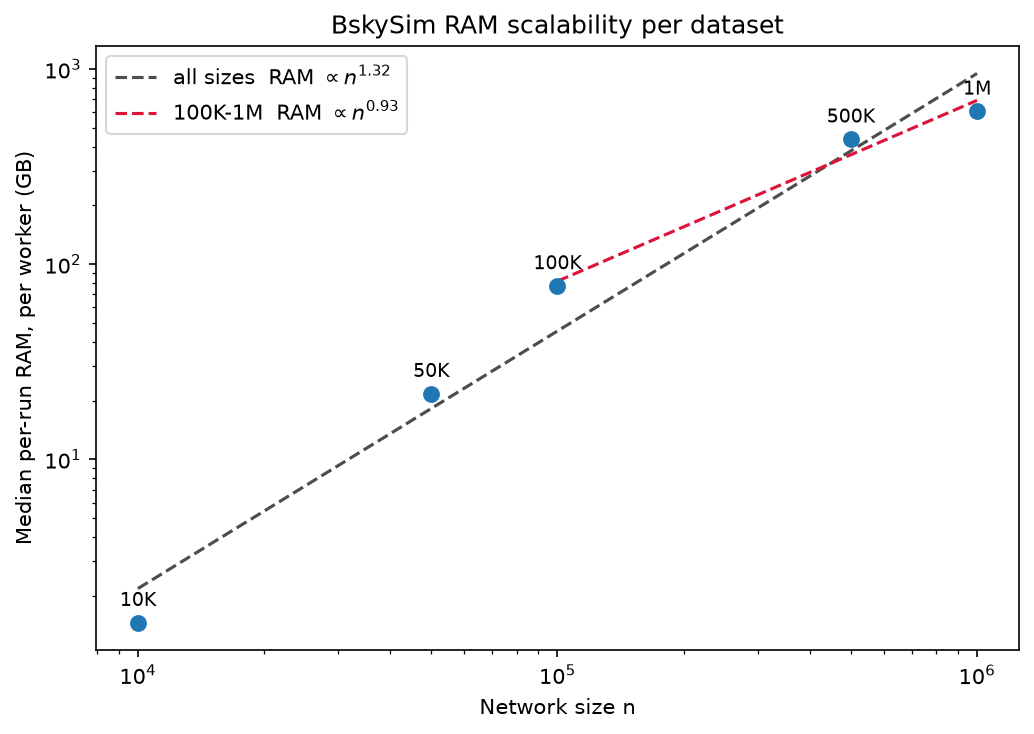
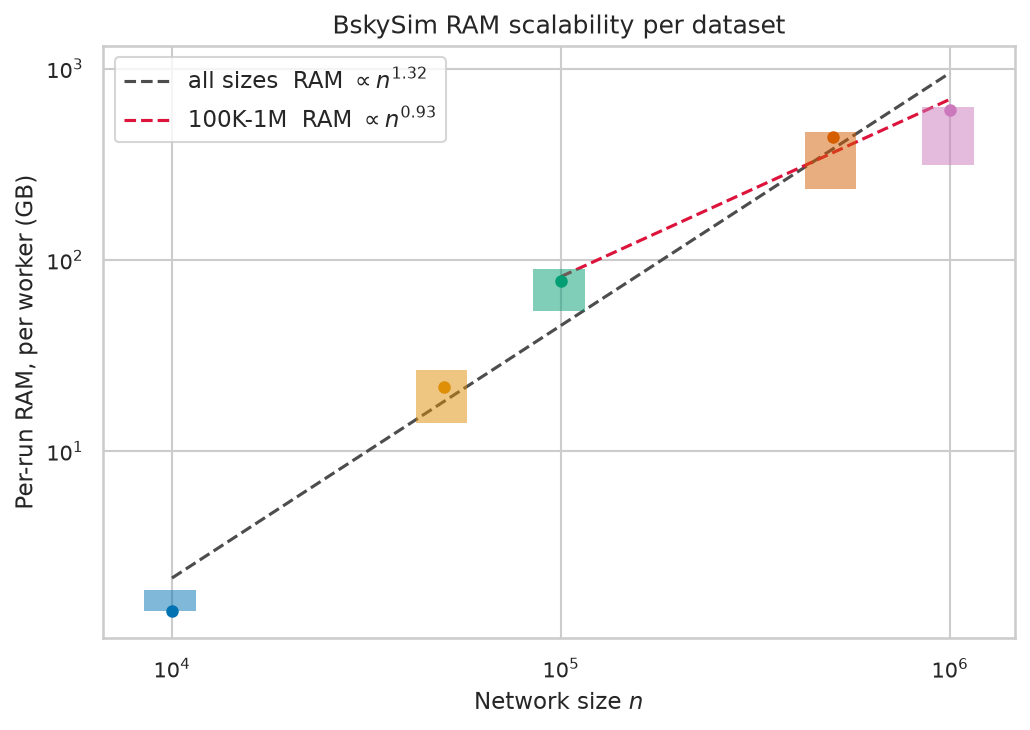
last iteration

diff --git a/performance-analysis/fit_ram_complexity.py b/performance-analysis/fit_ram_complexity.py
@@ -2,9 +2,10 @@
 """RAM scalability (big-O) of BskySim across dataset sizes.
 
 Fits candidate complexity models to per-run RAM (normalized per worker, using
-the MEDIAN per-run value per size) and plots the two power-law fit lines on a
-log-log scatter -- mirroring python-utils/plot_time_complexity.py, but for
-memory instead of time.
+the MEDIAN per-run value per size), plots a log-log scatter with a min→max
+range band per size and the two power-law fit lines. Mirrors
+python-utils/plot_time_complexity.py, but for memory instead of time, and the
+confidence interval is replaced by the per-size min→max range.
 
 Usage:
     uv run python fit_ram_complexity.py
@@ -12,14 +13,14 @@ Usage:
 
 from __future__ import annotations
 
+import shutil
 import statistics
 from pathlib import Path
 
-import matplotlib
-
-matplotlib.use("Agg")
 import matplotlib.pyplot as plt
 import numpy as np
+import seaborn as sns
+from matplotlib.patches import Rectangle
 
 import analyze
 
@@ -31,9 +32,21 @@ SIZES = ["10K", "50K", "100K", "500K", "1M"]
 N = {"10K": 1e4, "50K": 5e4, "100K": 1e5, "500K": 5e5, "1M": 1e6}
 BIG = ["100K", "500K", "1M"]
 
+# Thesis styling (firehose-analysis/AGENTS.md): whitegrid, LaTeX, 11pt base.
+sns.set_theme(style="whitegrid")
+plt.rcParams.update({
+    # LaTeX only when available; falls back to mathtext on machines without it.
+    "text.usetex": shutil.which("latex") is not None,
+    "axes.labelsize": 11,
+    "font.size": 11,
+    "legend.fontsize": 11,
+    "xtick.labelsize": 10,
+    "ytick.labelsize": 10,
+})
 
-def per_size_median_gb(ram: list) -> dict[str, float]:
-    """Median per-run peak RSS per size, in GB, normalized per worker."""
+
+def per_size_stats(ram: list) -> dict[str, tuple[float, float, float]]:
+    """Per size -> (min, median, max) per-run peak RSS in GB, per worker."""
     out = {}
     for size, start, end in analyze.SIZES:
         times = analyze.parse_times(TRACES / size / "execution_times.ssv")
@@ -44,7 +57,7 @@ def per_size_median_gb(ram: list) -> dict[str, float]:
         peaks = [max((r[2] for r in ram if s <= r[0] <= e), default=None) for s, e, w, r in slices]
         vals = [analyze.gb(p) / workers for p in peaks if p is not None]
         if vals:
-            out[size] = statistics.median(vals)
+            out[size] = (min(vals), statistics.median(vals), max(vals))
     return out
 
 
@@ -72,35 +85,41 @@ def fit_models(n: np.ndarray, y: np.ndarray, indent: str = "  ") -> None:
 
 def main() -> None:
     ram = analyze.parse_ram(RAM_FILE)
-    data = per_size_median_gb(ram)
-    sizes = [s for s in SIZES if s in data]
+    stats = per_size_stats(ram)
+    sizes = [s for s in SIZES if s in stats]
     n = np.array([N[s] for s in sizes])
-    y = np.array([data[s] for s in sizes])
+    y = np.array([stats[s][1] for s in sizes])  # median
 
-    print("per-size median per-run RAM (GB, normalized per worker):")
-    print(f"{'size':<6} {'n':>10} {'median GB':>11}")
-    print("-" * 30)
+    print("per-size per-run RAM (GB, normalized per worker):")
+    print(f"{'size':<6} {'min':>9} {'median':>9} {'max':>9}")
+    print("-" * 34)
     for s in sizes:
-        print(f"{s:<6} {N[s]:>10.0f} {data[s]:>11.1f}")
+        lo, med, hi = stats[s]
+        print(f"{s:<6} {lo:>9.1f} {med:>9.1f} {hi:>9.1f}")
     print()
 
     print(f"Fit on median, all sizes ({', '.join(sizes)}):")
     fit_models(n, y)
 
     n_big = np.array([N[s] for s in BIG])
-    y_big = np.array([data[s] for s in BIG])
+    y_big = np.array([stats[s][1] for s in BIG])
     print(f"\nFit on median, big only ({', '.join(BIG)}):")
     fit_models(n_big, y_big)
 
-    # ---- log-log scatter + the two fit lines ----
     p_all, c_all = powerlaw(n, y)
     p_big, c_big = powerlaw(n_big, y_big)
 
+    # ---- log-log scatter + min/max band + the two fit lines ----
+    palette = sns.color_palette("colorblind", len(sizes))
     fig, ax = plt.subplots(figsize=(7, 5))
-    ax.scatter(n, y, s=50, zorder=3)
-    for s, xi, yi in zip(sizes, n, y):
-        ax.annotate(s, (xi, yi), textcoords="offset points",
-                    xytext=(0, 8), ha="center", fontsize=9)
+
+    for s, color in zip(sizes, palette):
+        lo, med, hi = stats[s]
+        w = 0.3 * N[s]
+        ax.add_patch(Rectangle((N[s] - w / 2, lo), w, hi - lo,
+                               facecolor=color, alpha=0.5, edgecolor="none",
+                               zorder=4))
+        ax.plot([N[s]], [med], marker="o", ms=5, color=color, zorder=5)
 
     n_fit = np.geomspace(n.min(), n.max(), 100)
     ax.plot(n_fit, c_all * n_fit ** p_all, "--", color="0.3", lw=1.5,
@@ -111,8 +130,8 @@ def main() -> None:
 
     ax.set_xscale("log")
     ax.set_yscale("log")
-    ax.set_xlabel("Network size n")
-    ax.set_ylabel("Median per-run RAM, per worker (GB)")
+    ax.set_xlabel("Network size $n$")
+    ax.set_ylabel("Per-run RAM, per worker (GB)")
     ax.set_title("BskySim RAM scalability per dataset")
     ax.legend()
 
